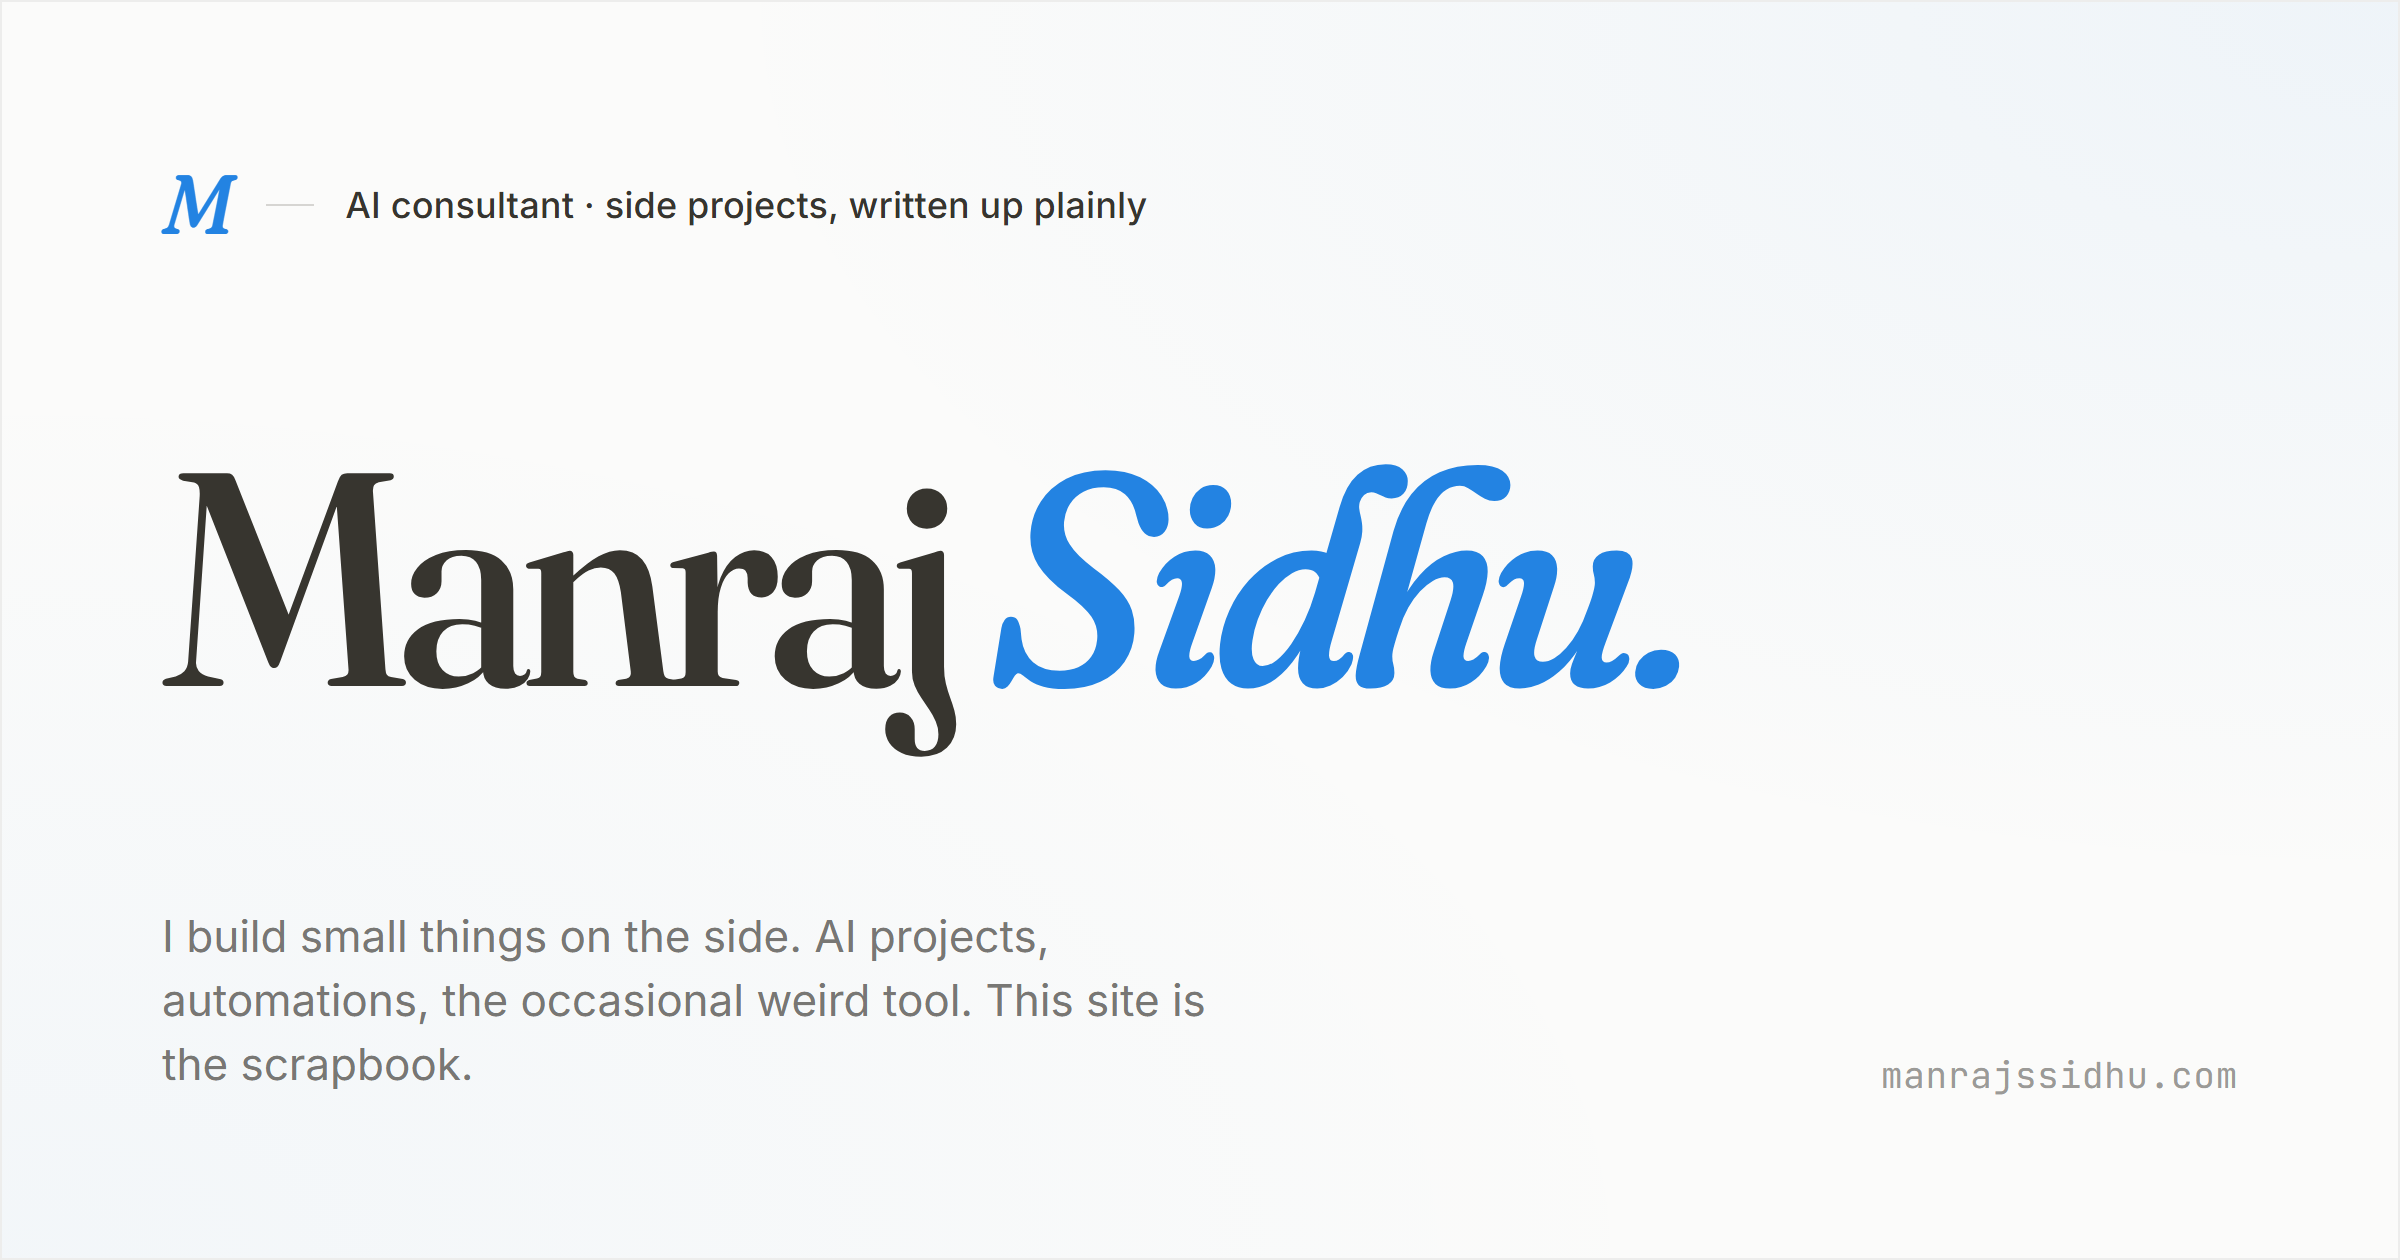
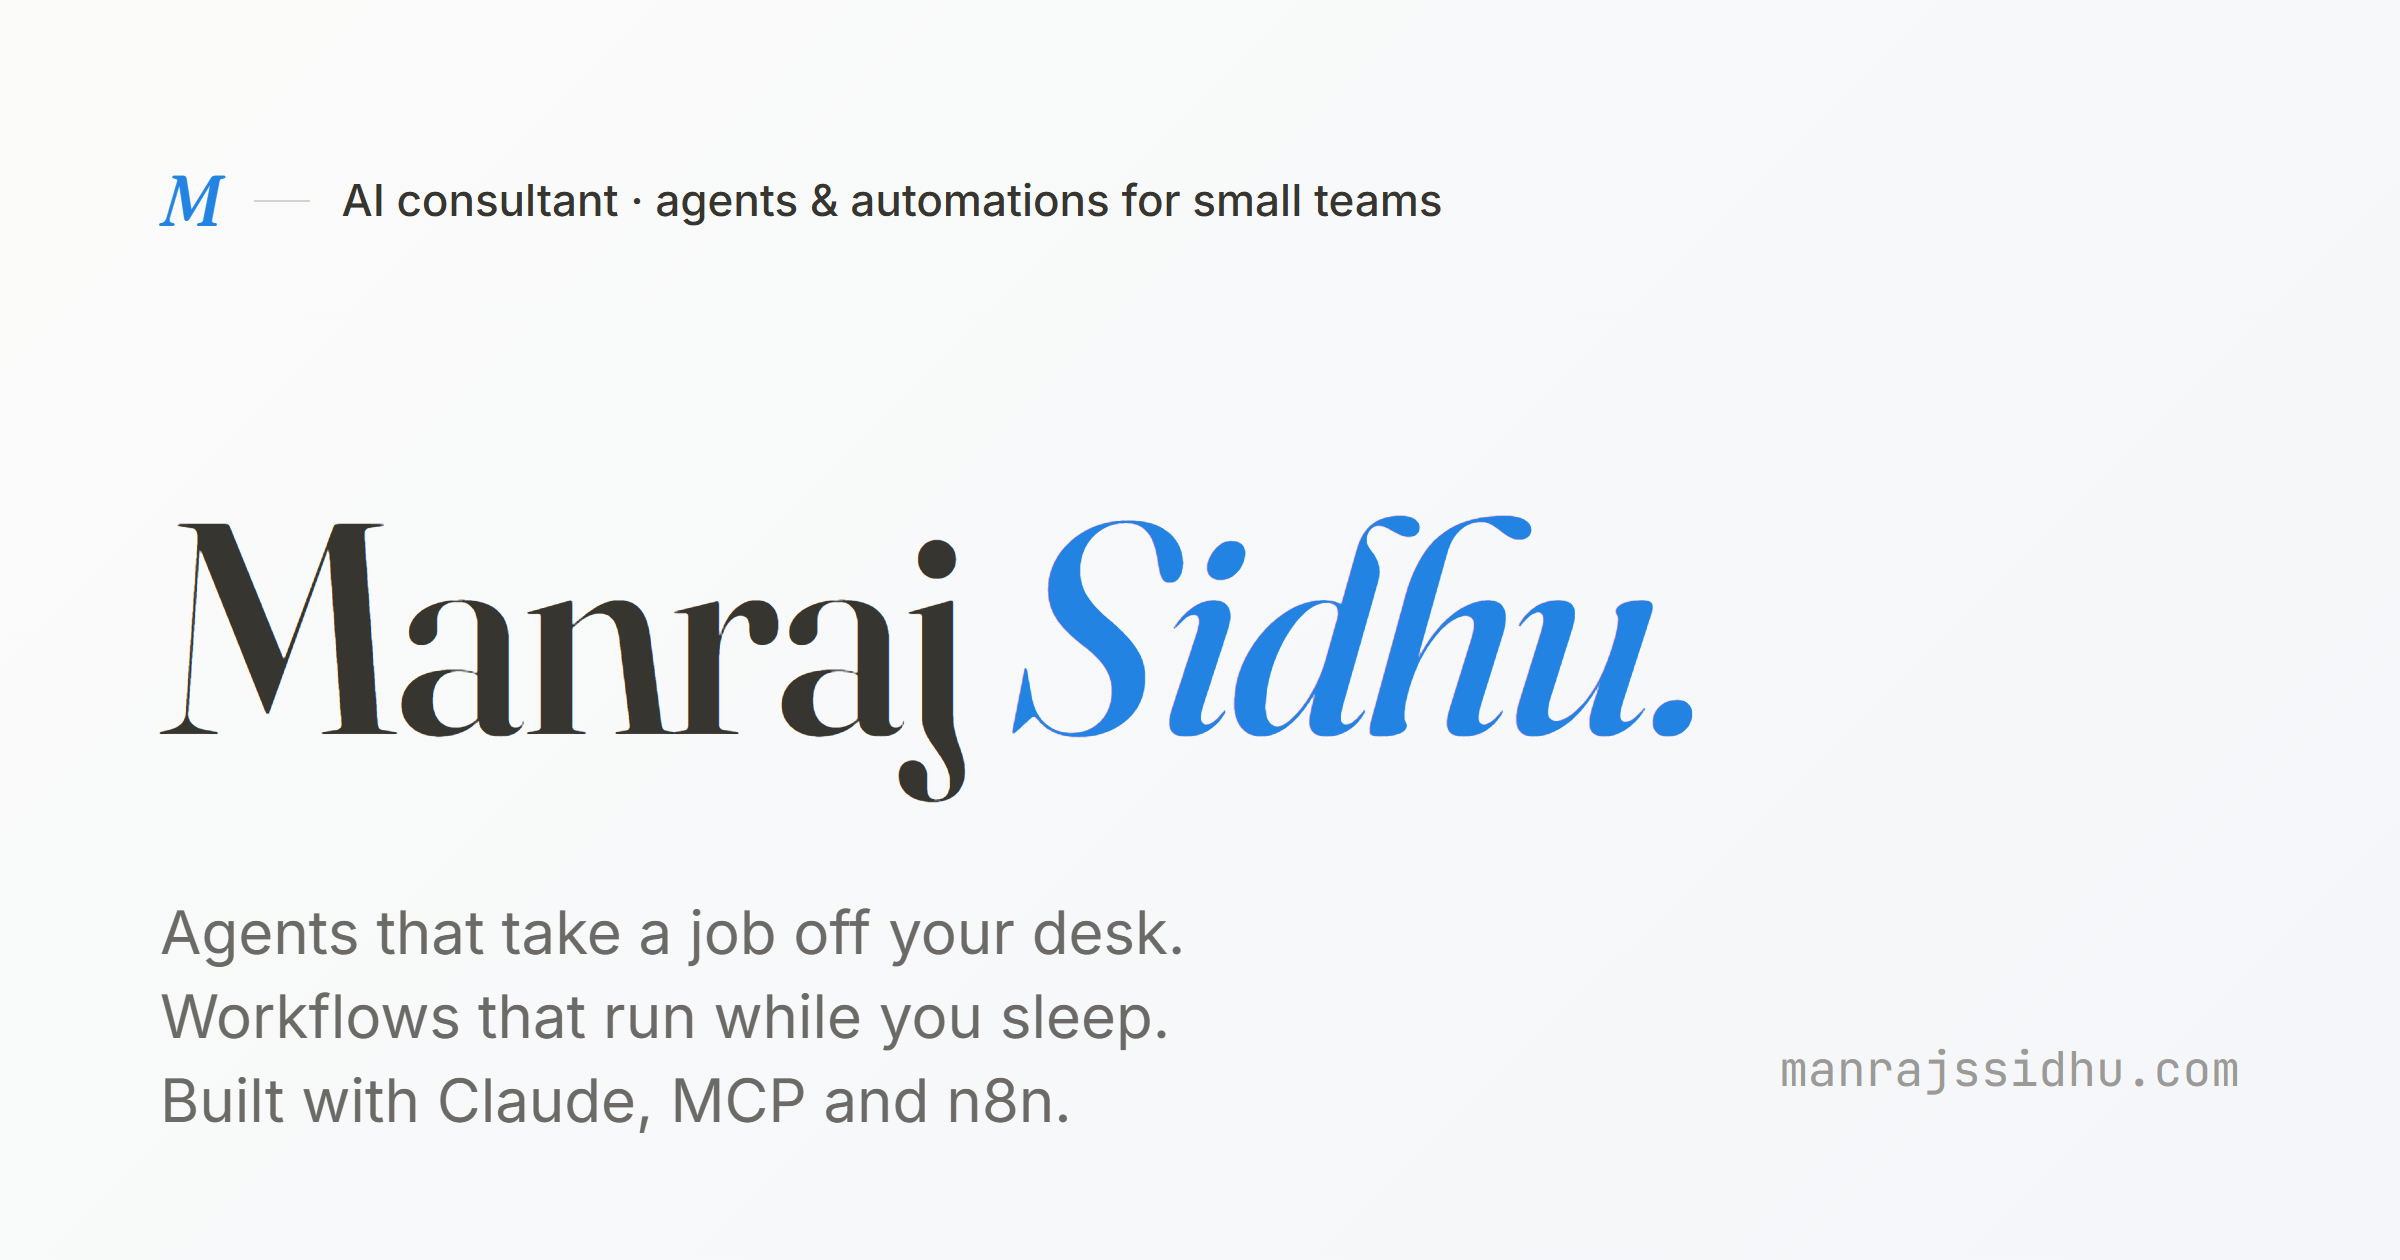
Copy: AI agents and automations for small teams, with an Open to line
Masthead, hero, About, Contact and the share metadata stop saying
"side projects" and "scrapbook". Contact gets an "Open to" line for
contract builds and AI consulting. New OG image with the same line.

diff --git a/src/components/About.tsx b/src/components/About.tsx
@@ -14,18 +14,18 @@ export function About() {
       <div className="about-grid">
         <div className="about-body">
           <h2 className="serif-heading">
-            Builder, competitor, padel addict.
+            I build the boring half, so you don&apos;t have to.
           </h2>
 
           <ol className="about-numbered">
             <li>
               <span className="about-num" aria-hidden="true">01</span>
               <p className="lead">
-                <span className="dropcap">I</span>&apos;m Manraj. I build
-                with AI, mostly against the work in front of me: tools
-                that take a job I&apos;d otherwise put off, workflows
-                that run themselves, and the occasional thing built
-                around the games I play.
+                <span className="dropcap">I</span>&apos;m Manraj, an AI
+                consultant. I build agents and automations for small
+                teams: the enquiry replies, the reports, the data refreshes,
+                the admin that eats a week. Everything on this site I ran on
+                my own work first, so I know where it breaks.
               </p>
             </li>
           </ol>
@@ -40,10 +40,10 @@ export function About() {
                 <li>
                   <span className="about-num" aria-hidden="true">02</span>
                   <p>
-                    Some of these are personal infrastructure. Scheduled
-                    Claude routines that prep my day, drain a queue,
-                    refresh a dataset overnight, so my evenings go to
-                    building instead of the admin around it.
+                    My own setup is the test bed. Scheduled Claude routines
+                    prep my day, drain a queue and refresh a dataset
+                    overnight. If a workflow survives a month on my desk,
+                    it&apos;s ready for someone else&apos;s.
                   </p>
                 </li>
                 <li>
@@ -127,7 +127,7 @@ export function About() {
           <dl className="facts">
             <div>
               <dt>Working on</dt>
-              <dd>AI &amp; automation, mostly</dd>
+              <dd>Agents &amp; automations for small teams</dd>
             </div>
             <div>
               <dt>Tools</dt>

diff --git a/src/components/Contact.tsx b/src/components/Contact.tsx
@@ -4,16 +4,21 @@ export function Contact() {
       <p className="kicker">
         <span>§</span> Contact
       </p>
-      <h2 className="serif-heading contact-heading">Say hello.</h2>
+      <h2 className="serif-heading contact-heading">Let&apos;s take something off your plate.</h2>
       <p className="contact-lede">
-        If you&apos;re building something interesting, or you just want
-        to argue about agents, my inbox is open.
+        If your team has a job that eats hours every week and should be
+        running itself, tell me what it is. Short email, no pitch deck needed.
+      </p>
+
+      <p className="contact-open">
+        <strong>Open to:</strong> contract builds (an agent or automation, scoped and shipped), AI consulting
+        (what to automate first, what to leave alone), and the odd conversation about agents or VGC.
       </p>
 
       <ul className="contact-prompts" aria-label="Good reasons to write">
+        <li>Got a process that lives in someone&apos;s head and a spreadsheet?</li>
+        <li>Tried an AI tool, it half worked, and you want it to actually work?</li>
         <li>Building an agent and want a second pair of eyes?</li>
-        <li>Working on a VGC tool? Let&apos;s compare notes.</li>
-        <li>Got a Claude trick I should try? I&apos;m always reading.</li>
       </ul>
 
       <a href="mailto:contact@manrajssidhu.com" className="email-line">

diff --git a/src/app/layout.tsx b/src/app/layout.tsx
@@ -35,7 +35,7 @@ export const metadata: Metadata = {
   openGraph: {
     title: "Manraj Sidhu · AI consultant and builder",
     description:
-      "Side projects in AI and automation: VGC tools, Claude routines, MCP servers, brand sites.",
+      "AI consultant. Agents, automations and tools built with Claude, MCP and n8n for small teams.",
     type: "website",
     url: "https://manrajssidhu.com",
     images: [
@@ -43,7 +43,7 @@ export const metadata: Metadata = {
         url: "https://manrajssidhu.com/assets/og-image.png",
         width: 1200,
         height: 630,
-        alt: "Manraj Sidhu, AI consultant. Side projects, written up plainly.",
+        alt: "Manraj Sidhu, AI consultant. Agents and automations for small teams.",
       },
     ],
   },
@@ -51,7 +51,7 @@ export const metadata: Metadata = {
     card: "summary_large_image",
     title: "Manraj Sidhu · AI consultant and builder",
     description:
-      "Side projects in AI and automation: VGC tools, Claude routines, MCP servers, brand sites.",
+      "AI consultant. Agents, automations and tools built with Claude, MCP and n8n for small teams.",
     images: ["https://manrajssidhu.com/assets/og-image.png"],
   },
   icons: {

diff --git a/src/components/Hero.tsx b/src/components/Hero.tsx
@@ -3,7 +3,7 @@ export function Hero() {
     <section className="hero" id="top">
       <div className="hero-inner">
         <div className="hero-meta">
-          <span>I build with AI. Mostly tools that pull work off my own desk.</span>
+          <span>I build AI agents and automations for small teams.</span>
         </div>
 
         <h1 className="display">
@@ -14,8 +14,8 @@ export function Hero() {
         </h1>
 
         <p className="dek">
-          Tools that take a job off my desk. Agents that drain a queue while
-          I sleep. A few projects built around the games I play.
+          Agents that take a job off your desk. Workflows that run while you
+          sleep. Built with Claude, MCP and n8n, tested on my own work first.
         </p>
 
         <div className="hero-actions">
@@ -23,7 +23,7 @@ export function Hero() {
             See the projects
           </a>
           <a href="#contact" className="btn btn-quiet">
-            Get in touch
+            Work with me
           </a>
         </div>
 

diff --git a/src/components/Masthead.tsx b/src/components/Masthead.tsx
@@ -81,7 +81,7 @@ export function Masthead() {
         <Link href="/#top" className="mark" aria-label="Home">
           <span className="mark-glyph">M</span>
           <span className="mark-rule" />
-          <span className="mark-text">AI consultant · side projects</span>
+          <span className="mark-text">AI agents &amp; automations for small teams</span>
         </Link>
         <nav className="nav" aria-label="Primary" ref={navRef}>
           {pill && (

diff --git a/src/app/globals.css b/src/app/globals.css
@@ -1042,6 +1042,8 @@ a { color: inherit; text-decoration: none; }
   text-align: center;
   margin-bottom: 24px;
 }
+.contact-open { align-self: center; max-width: 60ch; margin: 0 0 22px; font-size: 16px; line-height: 1.6; color: var(--text); text-align: center; }
+.contact-open strong { font-weight: 600; }
 .email-line {
   display: inline-flex;
   align-items: center;
